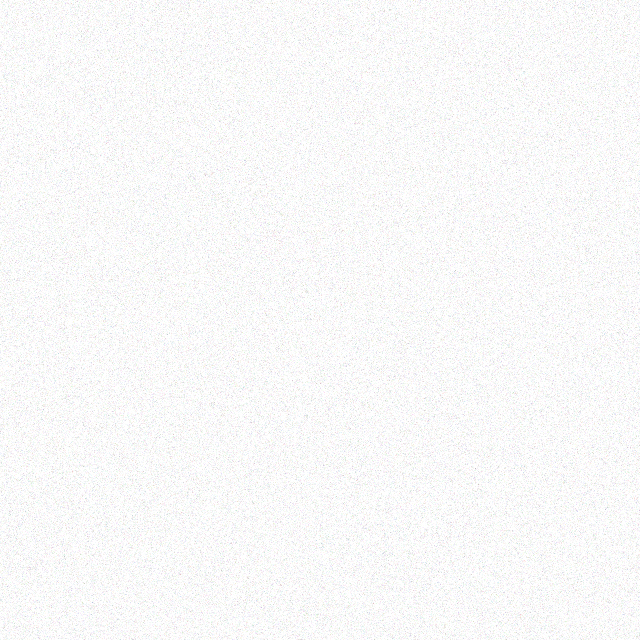
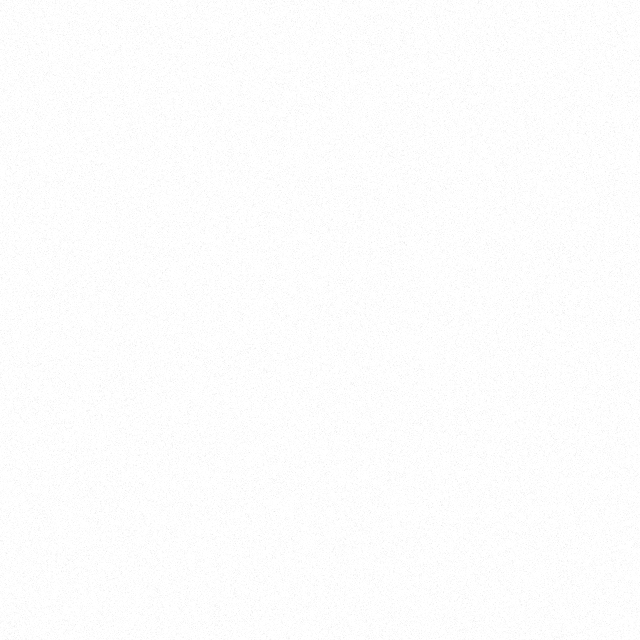
blue rebalance

Changed region(s): [[0.4062, 0.3438, 0.4375, 0.375]]

diff --git a/app/assets/stylesheets/global.css.scss b/app/assets/stylesheets/global.css.scss
@@ -31,35 +31,11 @@ html, body {
 
 body {
   color: $maintextcolor;
-  background: $bg;
+  background-color: $bg;
+  background-image: url("/assets/noise.png");
 
   /* always want a scrollbar, otherwise the page jumps as they turn on/off */
   overflow: scroll;
-}
-
-h1, h2, h3, h4, h5 {
-  font-family: "Droid Sans" sans-serif;
-  color: $offblack;
-}
-
-h1, h1 > a {
-  line-height: 2*$basesize;
-  font-size: 2*$basesize;
-  font-weight: bold;
-}
-
-h2 {
-  line-height: 3*$basesize;
-  font-size: 2*$basesize;
-  font-weight: bold;
-}
-
-h3 {
-  line-height: 2*$basesize;
-  font-size: 1.5*$basesize;
-}
-
-h4 {
 }
 
 a {
@@ -73,6 +49,7 @@ a:active {
 }
 
 p {
+  max-width: 640px;
   margin-bottom: $basesize;
 }
 
@@ -138,10 +115,63 @@ $noticehue: 120;
 #content {
   margin: 0 auto;
   padding: 2*$basesize $basesize 7*$basesize $basesize;
-  width: 640px;
+  width: $bodywidth;
   position: relative;
   z-index: 1;
   min-height: 600px;
+
+  h1, h2, h3, h4, h5 {
+    font-family: "Droid Sans" sans-serif;
+    color: $offwhite;
+  }
+
+  h1, h1 > a {
+    line-height: 2*$basesize;
+    font-size: 2*$basesize;
+    font-weight: bold;
+  }
+
+  h1 {
+    background: $headerbg;
+    padding: (.5*$basesize - 1) 2*$basesize;
+    margin-left: -2*$basesize;
+    display: inline-block;
+    box-shadow: 0 0 0 4px darken($headerbg, 5%), 2px 2px 2*$basesize 4px hsla(0, 0, 0, .9);
+    border: 1px dashed $shadow;
+    margin-bottom: $basesize;
+    text-shadow: 0 1px 1px lighten($headerbg, 20%);
+    color: $offblack;
+    @include gradient($headerbg, darken($headerbg, 10%));
+  }
+
+  h1:before {
+    content: "";
+    display: block;
+    width: 0;
+    height: 0;
+    border: ($basesize - 5) solid darken($headerbg, 50%);
+    border-left-color: transparent;
+    border-bottom-color: transparent;
+    position: absolute;
+    left: -5px;
+    margin-top: (2*$basesize + 11);
+    z-index: -1;
+  }
+
+  h2 {
+    line-height: 3*$basesize;
+    font-size: 2*$basesize;
+    font-weight: bold;
+  }
+
+  h3 {
+    line-height: 2*$basesize;
+    font-size: 1.5*$basesize;
+  }
+
+  h4 {
+  }
+
   > div {
     background: $contentdivbackground;
     color: $contentdivtextcolor;
@@ -149,7 +179,9 @@ $noticehue: 120;
     padding: $basesize;
   }
   p {
+    text-shadow: 0 1px 1px $shadow;
     text-align: justify;
+    font-family: "Droid Sans";
   }
   ul {
     padding-left: 2*$basesize;
@@ -171,9 +203,6 @@ $noticehue: 120;
     display: block;
   }
 
-  h1 {
-  }
-
   .actions {
     display: inline-block;
     height: 2*$basesize;
@@ -186,13 +215,15 @@ $noticehue: 120;
     height: $basesize;
     display: inline-block;
     line-height: $basesize;
-    background: $highlight;
-    color: $shadow;
+    background: $shadow;
+    color: $highlight;
+    border: 1px solid $highlight;
+    margin-right: .5*$basesize;
   }
 
   .actions > a:focus, .actions > a:hover {
-    color: $highlight;
-    background: $shadow;
+    color: $shadow;
+    background: $highlight;
     outline: none;
   }
 

diff --git a/app/assets/stylesheets/defs.css.scss b/app/assets/stylesheets/defs.css.scss
@@ -13,24 +13,23 @@
 /* The base unit for scheme */
 $basesize: 14px;
 
-$bodywidth: 640px;
+$bodywidth: 800px;
 
 /* palette */
-$theme: hsl(39, 40, 60);
-$highlight: hsl(39, 60, 80);
-$midtone: hsl(34, 60, 20);
-$lowmid: hsl(34, 40, 20);
-$altlowmid: hsl(49, 40, 80);
-$shadow: hsl(34, 40, 15);
-$accent: hsl(240, 50, 20);
-$offblack: hsl(44, 100, 5);
-$offwhite: hsl(224, 100, 98);
+$theme: hsl(240, 60, 20);
+$highlight: hsl(240, 60, 80);
+$shadow: hsl(240, 40, 15);
+$accent: hsl(210, 70, 70);
+$offblack: hsl(244, 100, 5);
+$offwhite: hsl(230, 100, 93);
 
 /* Message colors */
 $alerthue: 0;
 $noticehue: 120;
 
-$bg: white;
+$headerbg: hsl(240, 40, 80);
+$headernipplebg: hsl(240, 40, 30);
+$bg: hsl(240, 40, 7);
 
 $shadowcolor: $shadow;
 $menubarcolor: none;
@@ -41,20 +40,20 @@ $input_border: white;
 $wrapperbg: $bg;
 $wrapperbordercolor: #0f1521;
 
-$maintextcolor: black;
+$maintextcolor: white;
 $linkcolor: $theme;
 
-$contentdivbackground: none;
-$contentdivtextcolor: black;
+$contentdivbackground: transparentize(white, .95);
+$contentdivtextcolor: $offwhite;
 $contentlinkcolor: $shadow;
 
 /* UI Color defaults */
 $uiborderradius: .25*$basesize;
 $uibordercolor: #888;
 $uiactivetextcolor: $offwhite;
-$uiactivebackgroundcolor: hsl(235, 80, 80);
+$uiactivebackgroundcolor: lighten($offwhite, 30%);
 $uiinactivetetextcolor: #DDD;
-$uibackgroundcolor: #EEE;
+$uibackgroundcolor: $offwhite;
 
 /* abstract base class :P */
 .hardware {
@@ -62,16 +61,16 @@ $uibackgroundcolor: #EEE;
   font-weight: bold;
   display: inline-block;
   padding: 0 .5*$basesize;
-  line-height: 2.5*$basesize;
-  height: (2.5*$basesize) - 2;
+  line-height: 3*$basesize;
+  height: (3*$basesize - 2);
   font-size: 1.5*$basesize;
   border: 0 solid transparent;
-  border-bottom: 3px solid transparent;
+  color: $accent;
 }
 
 .hardware:hover {
-  color: $theme;
-  border-bottom-color: black;
+  background: $theme;
+  color: $offwhite;
 }
 
 .hardware:active, .hardware:focus {

diff --git a/app/assets/stylesheets/nav_login.css.scss b/app/assets/stylesheets/nav_login.css.scss
@@ -8,10 +8,10 @@
 
   input, label {
     width: 80px-$basesize;
-    line-height: 2.5*$basesize;
-    height: (2.5*$basesize) - 2;
+    line-height: 1.5*$basesize;
+    height: (1.5*$basesize);
     padding: 0 .5*$basesize;
-    background: white;
+    background: none;
     display: inline-block;
     vertical-align: top;
   }

diff --git a/app/assets/stylesheets/header.css.scss b/app/assets/stylesheets/header.css.scss
@@ -11,6 +11,7 @@
   margin: 0 auto;
   width: ($bodywidth - 2*$basesize);
   padding: $basesize;
+  color: $offwhite;
 }
 
 #menubar {
@@ -30,6 +31,9 @@
 #menu {
   width: $bodywidth;
   margin: auto;
+  border-top: 1px solid $offwhite;
+  border-bottom: 1px solid $offwhite;
+  height: (3*$basesize - 2);
 }
 
 #site_title {

diff --git a/app/assets/stylesheets/footer.css.scss b/app/assets/stylesheets/footer.css.scss
@@ -1,8 +1,6 @@
 @import "defs";
 
 #footer {
-  @include gradient($offblack, black);
-  background-color: $shadow;
   position: relative;
   z-index: 2;
   bottom: 0;

diff --git a/app/assets/stylesheets/posts.css.scss b/app/assets/stylesheets/posts.css.scss
@@ -13,6 +13,6 @@
 }
 
 .post-date {
-  display: inline-block;
+  display: block;
   font-size: $basesize*0.8;
 }
